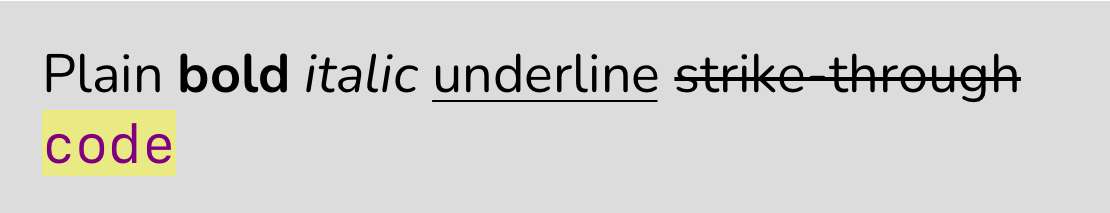
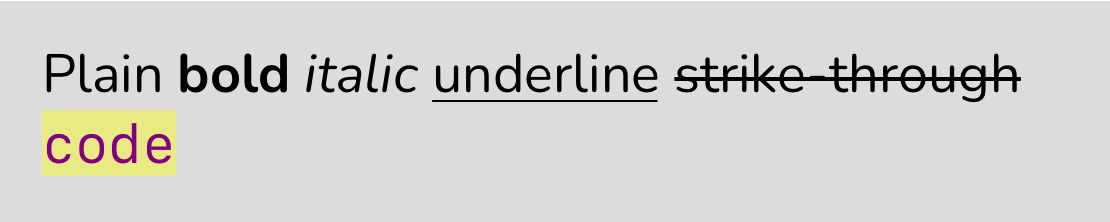
fix(iOS): inline styles parsing

Changed region(s): [[0.0306, 0.2254, 0.9189, 0.4789], [0.0306, 0.5915, 0.1838, 0.8451], [0.0306, 0.4789, 0.1532, 0.5352]]

diff --git a/ios/htmlParser/HtmlParser.mm b/ios/htmlParser/HtmlParser.mm
@@ -155,6 +155,9 @@
   NSMutableArray *tagEntry = [[NSMutableArray alloc] init];
 
   NSArray *tagData = ongoingTags[tagName];
+  if (tagData == nil) {
+    return;
+  }
   NSInteger tagLocation = [((NSNumber *)tagData[0]) intValue];
   NSInteger openImageCount = [((NSNumber *)tagData[1]) intValue];
   NSInteger currentImageCount = *precedingImageCount;
@@ -495,46 +498,44 @@
           checkboxStates[@(plainText.length)] = @(isChecked);
         }
       } else if (!closingTag) {
-        BOOL isPlainParagraph =
-            [currentTagName isEqualToString:@"p"] &&
-            (!currentTagParams || [currentTagParams length] == 0);
+        BOOL isPlainParagraph = [currentTagName isEqualToString:@"p"] &&
+                                currentTagParams.length == 0;
 
-        if (isPlainParagraph) {
-          continue;
-        }
-        // we finish opening tag - get its location, the current
-        // precedingImageCount and optionally params and put them under tag name
-        // key in ongoingTags. Storing the open-time image count lets
-        // finalizeTagEntry: correctly shift the start and extend the length
-        // so the range covers any images finalized between open and close.
-        NSMutableArray *tagArr = [[NSMutableArray alloc] init];
-        [tagArr addObject:[NSNumber numberWithInteger:plainText.length]];
-        [tagArr addObject:[NSNumber numberWithInteger:precedingImageCount]];
-        if (currentTagParams.length > 0) {
-          [tagArr addObject:[currentTagParams copy]];
-        }
-        ongoingTags[currentTagName] = tagArr;
+        if (!isPlainParagraph) {
+          // we finish opening tag - get its location, the current
+          // precedingImageCount and optionally params and put them under tag
+          // name key in ongoingTags. Storing the open-time image count lets
+          // finalizeTagEntry: correctly shift the start and extend the length
+          // so the range covers any images finalized between open and close.
+          NSMutableArray *tagArr = [[NSMutableArray alloc] init];
+          [tagArr addObject:[NSNumber numberWithInteger:plainText.length]];
+          [tagArr addObject:[NSNumber numberWithInteger:precedingImageCount]];
+          if (currentTagParams.length > 0) {
+            [tagArr addObject:[currentTagParams copy]];
+          }
+          ongoingTags[currentTagName] = tagArr;
 
-        // Check if this is a checkbox list
-        if ([currentTagName isEqualToString:@"ul"] &&
-            [self isUlCheckboxList:currentTagParams]) {
-          insideCheckboxList = YES;
-        }
+          // Check if this is a checkbox list
+          if ([currentTagName isEqualToString:@"ul"] &&
+              [self isUlCheckboxList:currentTagParams]) {
+            insideCheckboxList = YES;
+          }
 
-        // skip one newline if it was added after opening tags that are in
-        // separate lines
-        if ([self isBlockTag:currentTagName] && i + 1 < fixedHtml.length &&
-            [[NSCharacterSet newlineCharacterSet]
-                characterIsMember:[fixedHtml characterAtIndex:i + 1]]) {
-          i += 1;
-        }
+          // skip one newline if it was added after opening tags that are in
+          // separate lines
+          if ([self isBlockTag:currentTagName] && i + 1 < fixedHtml.length &&
+              [[NSCharacterSet newlineCharacterSet]
+                  characterIsMember:[fixedHtml characterAtIndex:i + 1]]) {
+            i += 1;
+          }
 
-        if (isSelfClosing) {
-          [self finalizeTagEntry:currentTagName
-                         ongoingTags:ongoingTags
-              initiallyProcessedTags:initiallyProcessedTags
-                           plainText:plainText
-                 precedingImageCount:&precedingImageCount];
+          if (isSelfClosing) {
+            [self finalizeTagEntry:currentTagName
+                           ongoingTags:ongoingTags
+                initiallyProcessedTags:initiallyProcessedTags
+                             plainText:plainText
+                   precedingImageCount:&precedingImageCount];
+          }
         }
       } else {
         // we finish closing tags - pack tag name, tag range and optionally tag